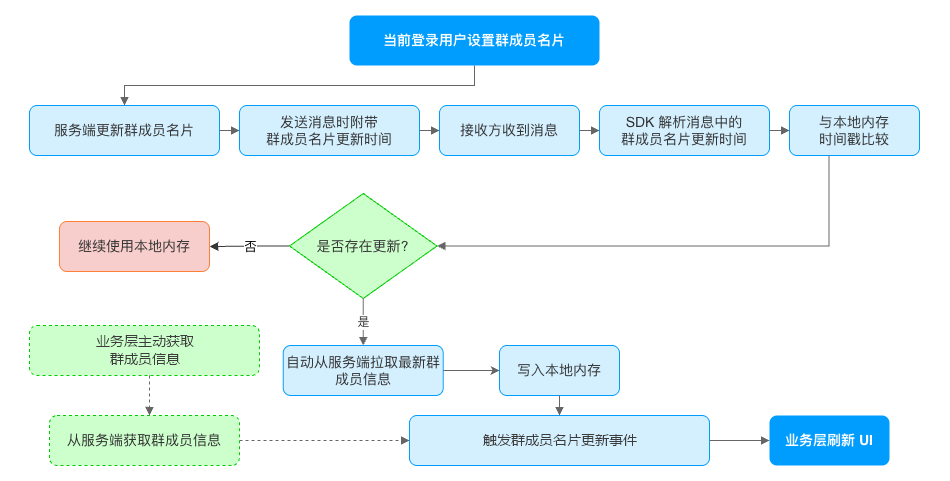
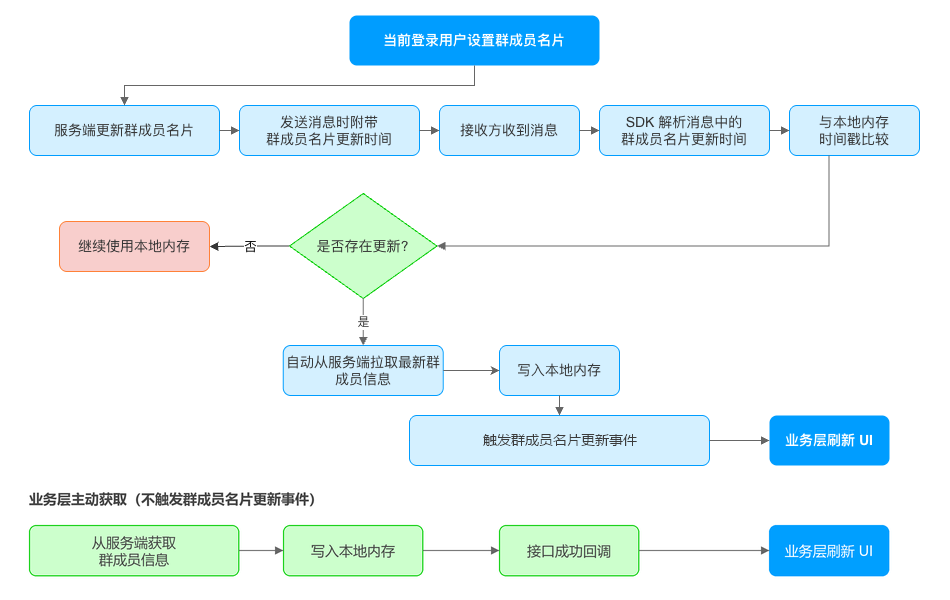
Change notice to tips

diff --git a/docs/document/react-native/push/push_overview.md b/docs/document/react-native/push/push_overview.md
@@ -70,20 +70,28 @@ iOS 端通过 APNs 接收普通离线推送通知，流程如下图所示：
 
 **推送证书**：推送证书及其配置的凭据用于环信服务器识别推送通道，并向对应推送服务进行鉴权。在发送推送通知前，需在 [环信控制台](https://console.easemob.com/user/login) 为应用配置推送证书或厂商凭据，并确保与客户端使用的推送项目、应用及环境一致。各平台的证书配置要求，详见 [上传推送证书](push_easemob_console.html)；Android 绑定时的 `notifierName` 取值，参见下文 [配置推送接口](#配置推送接口)。
 
-**推送 Token（Device Token）**：推送 Token 是第三方推送服务为应用实例生成的标识。以 FCM 推送为例，应用初次启动时，FCM SDK 会为客户端应用实例生成一个注册令牌（registration token），FCM 据此将通知准确投递至目标设备上的应用。在 Android 端接入 FCM 推送后，应用通过所用推送插件或原生推送 SDK 获取 FCM Token；iOS 普通 APNs 推送应获取 APNs Device Token。React Native IM SDK 不提供这些 Token 的获取接口。推送 Token 与 `ChatClient#loginWithToken` 使用的用户登录 Token 不同，不能混用。
+**推送 Token（Device Token）**：推送 Token 是第三方推送服务为应用实例生成的标识。以 FCM 推送为例，应用初次启动时，FCM SDK 会为客户端应用实例生成一个注册令牌（registration token），FCM 据此将通知投递至目标设备上的应用。在 Android 端接入 FCM 推送后，应用通过所用推送插件或原生推送 SDK 获取 FCM Token；iOS 普通 APNs 推送应获取 APNs Device Token。React Native IM SDK 不提供这些 Token 的获取接口。推送 Token 与 `ChatClient#loginWithToken` 使用的用户登录 Token 不同，不能混用。
 
-推送 Token 发生变化后，应在用户已登录的状态下重新调用 `ChatClient#bindDeviceToken` 绑定最新 Token。若退出即时通讯 IM 登录时选择不解绑 Device Token，可调用 `ChatClient.getInstance().logout(false)`；在推送证书和 Token 有效且满足推送条件时，用户仍可收到离线推送通知。`ChatClient#logout` 的 `unbindDeviceToken` 为可选的位置参数，默认为 `true`，表示登出时请求解绑 Device Token；传入 `false` 表示不解绑。
+推送 Token 发生变化后，应在用户已登录的状态下重新调用 `ChatClient#bindDeviceToken` 绑定最新 Token。
+
+`ChatClient#logout` 的 `unbindDeviceToken` 为可选的位置参数，默认为 `true`，表示登出时请求解绑 Device Token；传入 `false` 表示不解绑。若退出即时通讯 IM 登录时选择不解绑 Device Token，可调用 `ChatClient.getInstance().logout(false)`；在推送证书和 Token 有效且满足推送条件时，用户仍可收到离线推送通知。
 
 关于推送证书上传和 Token 获取，可参考 [上传推送证书](push_easemob_console.html)、[Android FCM 推送集成文档](/document/android/push/push_fcm.html#步骤四-fcm-推送集成) 和 [iOS APNs 推送集成文档](/document/ios/push/push_apns.html)。原生文档中的工程配置可作为参考，React Native SDK 5.x 的客户端配置与 Token 绑定调用以本文为准。
 
-:::tip
-React Native SDK 5.x 支持 iOS PushKit 接口。VoIP 推送使用独立的证书和 Token：初始化时通过 `ChatOptions.pushKitCertName` 配置证书名称，获取 `PKPushRegistry` 回调返回的十六进制 Token 后调用 `ChatClient#bindPushKitToken`。`ChatClient#bindDeviceToken` 不用于绑定 PushKit Token。
+**iOS PushKit 推送**
 
-`ChatClient#bindPushKitToken` 和 `ChatClient#unbindPushKitToken` 仅在 iOS 生效，其他平台调用不做任何处理。需要在保持登录状态下单独解绑 PushKit Token 时，调用 `ChatClient#unbindPushKitToken`。
-:::
+React Native SDK 5.x 支持 iOS PushKit 接口。VoIP 推送使用独立的证书和 Token，配置与绑定流程如下：
 
-:::notice
-iOS 端未配置 `ChatOptions.apnsCertName` 时，登出不会执行推送 Token 解绑。若仅使用 PushKit 推送并需要在登出时解除绑定，请先调用 `ChatClient#unbindPushKitToken`，成功后再登出，不要仅依赖 `logout(true)`。
+1. 初始化时，通过 `ChatOptions.pushKitCertName` 配置 PushKit 证书名称。
+2. 通过 `PKPushRegistry` 的回调获取 Token，并转换为十六进制字符串。
+3. 调用 `ChatClient#bindPushKitToken` 绑定 PushKit Token。`ChatClient#bindDeviceToken` 不用于绑定 PushKit Token。
+
+需要在保持登录状态下单独解绑 PushKit Token 时，调用 `ChatClient#unbindPushKitToken`。
+
+`ChatClient#bindPushKitToken` 和 `ChatClient#unbindPushKitToken` 仅在 iOS 生效，其他平台调用不做任何处理。
+
+:::tip 
+iOS 端未配置 `ChatOptions.apnsCertName` 时，登出会跳过推送 Token 解绑。若仅使用 PushKit 推送且需要在登出时解绑，请先调用 `ChatClient#unbindPushKitToken`，确认成功后再登出，不要仅依赖 `logout(true)`。
 :::
 
 ## 推送高级功能

diff --git a/docs/document/flutter/push/push_overview.md b/docs/document/flutter/push/push_overview.md
@@ -68,19 +68,25 @@ iOS 端通过 APNs 接收普通离线推送通知，流程如下图所示：
 
 ## 推送证书与推送 Token
 
-**推送证书**：推送证书及其配置的凭据用于环信服务器识别推送通道，并向对应推送服务进行鉴权。在发送推送通知前，需在 [环信控制台](https://console.easemob.com/user/login) 为应用配置推送证书或厂商凭据，并确保与客户端使用的推送项目、应用及环境一致。各平台的证书配置要求和 Android `notifierName` 取值，详见 [上传推送证书及绑定推送信息](push_easemob_console.html)。
+**推送证书**：推送证书及其配置的凭据用于环信服务器识别推送通道，并向对应推送服务进行鉴权。在发送推送通知前，需在 [环信控制台](https://console.easemob.com/user/login) 为应用配置推送证书或厂商凭据，并确保与客户端使用的推送项目、应用及环境一致。各平台的证书配置要求和 Android `notifierName` 取值，详见 [上传推送证书及绑定推送信息](app://-/push_easemob_console.html)。
 
-**推送 Token（Device Token）**：推送 Token 是第三方推送服务为应用实例生成的标识。以 FCM 推送为例，应用初次启动时，FCM SDK 会为客户端应用实例生成一个注册令牌（registration token），FCM 据此将通知准确投递至目标设备上的应用。在 Android 端集成 `firebase_messaging` 插件后，可通过 `FirebaseMessaging.instance.getToken()` 获取 FCM Token；iOS 普通 APNs 推送应获取 APNs Device Token。Flutter IM SDK 不提供这些 Token 的获取接口。推送 Token 与 `loginWithToken` 使用的用户登录 Token 不同，不能混用。
+**推送 Token（Device Token）**：推送 Token 是第三方推送服务为应用实例生成的标识。以 FCM 推送为例，应用初次启动时，FCM SDK 会为客户端应用实例生成一个注册令牌（registration token），FCM 据此将通知投递至目标设备上的应用。在 Android 端集成 `firebase_messaging` 插件后，可通过 `FirebaseMessaging.instance.getToken()` 获取 FCM Token；iOS 普通 APNs 推送应获取 APNs Device Token。Flutter IM SDK 不提供这些 Token 的获取接口。推送 Token 与 `loginWithToken` 使用的用户登录 Token 不同，不能混用。
 
 推送 Token 发生变化后，应在用户已登录的状态下重新调用 `bindDeviceToken` 绑定最新 Token。若退出即时通讯 IM 登录时选择不解绑 Device Token，可调用 `ChatClient.getInstance.logout(false)`；在推送证书和 Token 有效且满足推送条件时，用户仍可收到离线推送通知。`logout()` 默认解绑 Device Token，显式调用 `logout(true)` 同样表示解绑；`unbindDeviceToken` 是可选的位置参数，不是命名参数。
 
-关于推送证书上传和 Token 获取，可参考 [上传推送证书](push_easemob_console.html#上传推送证书)、[Android FCM 推送集成文档](/document/android/push/push_fcm.html#步骤四-fcm-推送集成) 和 [iOS APNs 推送集成文档](/document/ios/push/push_apns.html)。原生文档中的工程配置可作为参考，Flutter SDK 5.x 的客户端配置与 Token 绑定调用以本文为准。
+关于推送证书上传和 Token 获取，可参考 [上传推送证书](app://-/push_easemob_console.html#上传推送证书)、[Android FCM 推送集成文档](app://-/document/android/push/push_fcm.html#步骤四-fcm-推送集成) 和 [iOS APNs 推送集成文档](app://-/document/ios/push/push_apns.html)。原生文档中的工程配置可作为参考，Flutter SDK 5.x 的客户端配置与 Token 绑定调用以本文为准。
 
-:::tip
-Flutter SDK 5.x 支持 iOS PushKit 接口。VoIP 推送使用独立的证书和 Token：初始化时通过 `ChatOptions.pushKitCertName` 配置证书名称，获取 `PKPushRegistry` 回调返回的十六进制 Token 后调用 `ChatPushManager.bindPushKitToken`。`bindDeviceToken` 不用于绑定 PushKit Token。
+**iOS PushKit 推送**
 
-`bindPushKitToken` 和 `unbindPushKitToken` 仅在 iOS 生效，其他平台调用不做任何处理。需要在保持登录状态下单独解绑 PushKit Token 时，调用 `unbindPushKitToken`；iOS 端调用 `logout(true)` 时会同时解绑普通推送 Token 和 PushKit Token。
-:::
+Flutter SDK 5.x 支持 iOS PushKit 接口。VoIP 推送使用独立的证书和 Token，配置与绑定流程如下：
+
+1. 初始化 SDK 时，通过 `ChatOptions.pushKitCertName` 配置 PushKit 证书名称。
+2. 将 `PKPushRegistry` 回调中获取的 PushKit Token 转换为十六进制字符串。
+3. 用户登录成功后，调用 `ChatPushManager.bindPushKitToken` 绑定该 Token。`bindDeviceToken` 不用于绑定 PushKit Token。
+
+需要在保持登录状态下单独解绑 PushKit Token 时，调用 `ChatPushManager.unbindPushKitToken`。iOS 端调用 `logout(true)` 时会同时解绑普通推送 Token 和 PushKit Token。
+
+`bindPushKitToken` 和 `unbindPushKitToken` 仅在 iOS 生效，其他平台调用不做任何处理。
 
 ## 推送高级功能
 

diff --git a/docs/document/flutter/userinfo_provider.md b/docs/document/flutter/userinfo_provider.md
@@ -10,18 +10,23 @@
 
 ## 技术原理
 
-用户信息自动管理功能由 `ChatOptions#enableUserInfo` 控制。初始化 SDK 时开启该功能后，原生 SDK 会在登录成功后自动同步当前登录用户的用户信息；发送消息时自动携带发送方用户属性的更新时间，对于群聊消息还会携带发送方群成员名片的更新时间。
+用户信息自动管理功能由 `ChatOptions.enableUserInfo` 控制，默认关闭。初始化 SDK 时将其设置为 `true` 后，SDK 会在登录成功后自动同步当前登录用户的用户属性；发送消息时自动附带发送方用户属性的更新时间；对于群聊消息，还会附带发送方在当前群组中的群成员名片更新时间。
 
-接收消息后，原生 SDK 会比较消息中携带的更新时间与本地内存中的对应时间戳。如果消息中的数据较新或本地缺少相关数据，原生 SDK 会从服务器获取最新的用户属性或群成员名片，更新本地内存，并通过 Flutter SDK 的事件处理器通知业务层刷新 UI。
+接收消息后，原生 SDK 会自动将消息中携带的更新时间与本地缓存中的对应时间戳进行比较。消息携带有效的更新时间，且该时间晚于本地缓存中的对应时间戳，或本地缺少相关缓存时，SDK 会从服务端拉取最新的用户属性或群成员名片，更新原生 SDK 本地缓存，并通过相应事件通知 Flutter 业务层刷新界面。业务层无需解析或比较这些内部时间戳。好友备注从接收方本地好友数据中读取，不随消息发送，也不通过上述更新时间比较机制同步。详见 [通过消息获取发送方信息](#通过消息获取发送方信息)。
 
-`enableUserInfo` 与登录后列表同步配置 `dataSyncType` 相互独立。开启用户信息自动管理不等于开启会话、好友或已加入群组列表同步，也不表示登录后会自动获取所有好友的完整用户属性。列表同步配置详见 [初始化](initialization.html#设置登录后自动同步数据)。
+开启该功能后，SDK 会自动完成用户信息的同步、本地缓存更新及事件通知。业务层可根据通知刷新 UI。处理流程如下：
 
-Flutter 还会为 `fetchUserInfoById` 的结果维护一份 Dart 层缓存，该缓存与原生 SDK 的本地数据相互独立。用户属性更新事件不会自动刷新这份 Dart 缓存，也不会自动修改已创建的 Dart 消息对象；业务层需要根据事件数据更新自己的展示状态。
+1. 用户登录成功后，SDK 自动从服务端获取当前登录用户的属性，并写入原生 SDK 本地缓存。
+2. 当用户更新自身属性后，后续发送的消息会携带用户属性的更新时间；对于群聊消息，还会携带发送方在当前群组中的群成员名片更新时间。
+3. 接收方收到消息后，SDK 会解析消息中携带的用户属性更新时间；对于群聊消息，还会解析群成员名片更新时间。
+4. SDK 会将消息中的更新时间与原生 SDK 本地缓存中的对应时间戳进行比较。
+5. 如果消息携带有效的更新时间，且该时间晚于本地缓存中的对应时间戳，或本地缺少对应数据，SDK 会自动 [从服务端拉取最新用户属性](userprofile.html#从服务端获取用户的属性) 或 [群成员名片](group_namecard.html#从服务端获取群成员名片)。其中，群成员名片仅适用于群聊消息。
+6. 拉取成功后，SDK 会自动更新原生 SDK 本地缓存。
+7. SDK 会通过事件通知 Flutter 业务层，业务层可据此刷新 UI。
 
-Flutter SDK 对 Android 和 iOS 平台的用户信息自动管理能力进行了统一封装。有关各平台的具体实现原理，请参见：
+刷新界面时，请使用事件回调中的最新信息，或重新获取消息对象后读取 `ChatMessage.senderInfo`。先前持有的 Dart 消息对象不会自动更新。上述本地缓存由原生 SDK 维护，与 `fetchUserInfoById` 使用的 Dart 层缓存相互独立，用户信息更新事件不会自动刷新该 Dart 层缓存。
 
-- [Android 用户信息自动管理技术原理](/document/android/userinfo_provider.html#技术原理)
-- [iOS 用户信息自动管理技术原理](/document/ios/userinfo_provider.html#技术原理)
+![img](/images/android/memory_update_userinfo_mgmt.png)
 
 ## 前提条件
 

diff --git a/docs/document/react-native/group_namecard.md b/docs/document/react-native/group_namecard.md
@@ -10,13 +10,13 @@ React Native SDK 提供群成员名片管理功能，支持群成员名片的设
 
 ## 技术原理
 
-群成员名片管理功能主要由 `ChatGroupManager` 和 `ChatGroupEventListener` 提供。SDK 通过“主动设置或拉取、本地内存存储、事件通知、消息触发自动同步”的机制管理群成员名片，具体如下：
+群成员名片管理功能主要由 `ChatGroupManager` 和 `ChatGroupEventHandler` 提供。SDK 通过“主动设置或拉取、本地内存存储、事件通知、消息触发自动同步”的机制管理群成员名片，具体如下：
 
-1. 当前登录用户可通过 `ChatGroupManager#updateGroupNamecard` 设置或更新自己在指定群组中的群成员名片。
-2. SDK 收到群成员名片变更通知，或通过消息自动同步群成员名片并更新本地内存后，会通过 `ChatGroupEventListener#onUserGroupNamecardChanged` 事件通知业务层。
-3. SDK 支持通过 `ChatGroupManager#fetchMemberInfoListFromServer` 从服务端分页获取群成员信息，并将返回的群成员名片写入本地内存。
-4. SDK 支持通过 `ChatGroupManager#getGroupNamecard` 从本地内存读取指定成员在指定群组中的群成员名片。
-5. 若在初始化 SDK 时将 `ChatOptions#enableUserInfo` 设为 `true`（默认为 `false`），发送群聊消息时会自动附带发送方群成员名片更新时间；接收方开启该功能后，若检测到消息中的更新时间晚于本地内存中的更新时间，或本地尚无对应名片缓存，会自动从服务端拉取最新群成员名片，获取成功后更新本地内存，并触发事件通知业务层。
+1. 当前登录用户可通过 `ChatGroupManager.updateGroupNamecard` 设置或更新自己在指定群组中的群成员名片。
+2. SDK 收到群成员名片变更通知，或通过消息自动同步群成员名片并更新本地内存后，会通过 `ChatGroupEventHandler.onUserGroupNamecardChanged` 事件通知 Flutter 业务层。
+3. SDK 支持通过 `ChatGroupManager.fetchGroupMembersInfo` 从服务端分页获取群成员信息，并将返回的群成员名片写入原生 SDK 本地内存。
+4. SDK 支持通过 `ChatGroupManager.getGroupNamecard` 从原生 SDK 本地内存读取指定成员在指定群组中的群成员名片。该方法返回 `Future<String?>`，不会主动请求服务端。
+5. 若在初始化 SDK 时将 `ChatOptions.enableUserInfo` 设为 `true`（默认为 `false`），发送群聊消息时会自动附带发送方群成员名片的更新时间；接收方开启该功能后，若消息携带有效的更新时间，且该时间晚于本地内存中的对应时间戳，或本地尚无对应名片缓存，SDK 会自动从服务端拉取最新群成员名片，获取成功后更新原生 SDK 本地内存，并通过 `onUserGroupNamecardChanged` 事件通知 Flutter 业务层。
 
 内存更新流程如下图所示：
 

diff --git a/docs/document/react-native/login.md b/docs/document/react-native/login.md
@@ -183,17 +183,19 @@ try {
 }
 ```
 
-:::tip
-1. 如果应用集成了 FCM 等第三方推送，退出登录时建议将 `logout` 方法的 `unbindDeviceToken` 参数设置为 `true`，使 SDK 同时解绑当前设备的推送 Token。否则，退出登录后仍可能收到当前账号的离线推送通知。
+**推送 Token 解绑**
+
+如果应用集成了 FCM 等第三方推送，退出登录时建议将 `logout` 方法的 `unbindDeviceToken` 参数设置为 `true`，使 SDK 同时解绑当前设备的推送 Token。否则，退出登录后仍可能收到当前账号的离线推送通知。
 
 如果因网络异常导致推送 Token 解绑失败，`logout` 会返回失败。应用可以提示用户解绑失败及继续退出后可能仍收到推送的风险。若用户确认继续退出，可以将 `unbindDeviceToken` 设置为 `false`，再次调用 `logout`，仅退出 IM 账号而不解绑推送 Token。网络恢复后，应在适当时机处理遗留的推送 Token 解绑问题，不建议通过后台线程无限重试。
 
-2. 调用 `ChatClient#logout` 时，应等待 Promise 成功完成后，再调用 `ChatClient#loginWithToken` 登录其他账号或执行依赖退出完成的操作。若 Promise 拒绝，表示退出或推送 Token 解绑失败，应用应根据错误信息和业务场景进行处理。
+:::tip 
+React Native SDK 5.x 的 iOS 端在未配置 `ChatOptions#apnsCertName` 时，会按不解绑推送 Token 的方式退出，即使 `unbindDeviceToken` 为 `true`。若仅集成 PushKit 推送且需要解绑 Token，应在退出前调用 `ChatClient#unbindPushKitToken`，确认成功后再退出登录。
 :::
 
-:::notice
-React Native SDK 5.x 的 iOS 端在未配置 `ChatOptions#apnsCertName` 时，会按不解绑推送 Token 的方式退出，即使 `unbindDeviceToken` 为 `true`。若仅集成 PushKit 推送且需要解绑 Token，应在退出前调用 `ChatClient#unbindPushKitToken`，并处理解绑结果。
-:::
+**退出结果处理**
+
+调用 `ChatClient#logout` 时，应等待 Promise 成功完成后，再调用 `ChatClient#loginWithToken` 登录其他账号或执行依赖退出完成的操作。若 Promise 拒绝，表示退出或推送 Token 解绑失败，应用应根据错误信息和业务场景进行处理。
 
 ## 账号切换
 

diff --git a/docs/document/flutter/login.md b/docs/document/flutter/login.md
@@ -151,24 +151,27 @@ final String? currentUser =
 - （默认）`true`：解绑设备推送 Token。
 - `false`：不解绑设备推送 Token。
 
-通过异步方法的返回结果获取退出结果：
+示例代码如下：
 
 ```dart
 try {
   await ChatClient.getInstance.logout(true);
   // 退出成功。
 } on ChatError catch (e) {
-  // 退出失败。
+  // 退出失败，根据错误码和错误信息处理。
 }
 ```
 
 :::tip
-1. 如果应用集成了 FCM 等第三方推送，退出登录时建议将 `logout` 方法的 `unbindDeviceToken` 参数设置为 `true`，使 SDK 同时解绑当前设备的推送 Token。否则，退出登录后仍可能收到当前账号的离线推送通知。
-
-如果因网络异常导致推送 Token 解绑失败，`logout` 会抛出 `ChatError`。应用可以提示用户解绑失败及继续退出后可能仍收到推送的风险。若用户确认继续退出，可以将 `unbindDeviceToken` 设置为 `false`，再次调用 `logout`，仅退出 IM 账号而不解绑推送 Token。网络恢复后，应在适当时机处理遗留的推送 Token 解绑问题，不建议通过后台任务无限重试。
-
-2. 调用异步退出方法 `logout` 时，应等待该方法正常返回后，再调用 `loginWithToken` 登录其他账号或执行依赖退出完成的操作。若抛出 `ChatError`，表示退出或推送 Token 解绑失败，应用应根据错误码和业务场景进行处理。
+- 建议退出时解绑设备推送 Token，否则退出后仍可能收到当前账号的离线推送通知。
+- 请等待 `logout` 正常返回后，再登录其他账号或执行依赖退出完成的操作。
 :::
+
+**推送 Token 解绑失败处理**
+
+若因网络异常导致推送 Token 解绑失败，`logout` 会抛出 `ChatError`。应用应提示用户失败原因，并说明继续退出后仍可能收到当前账号的离线推送通知。
+
+若用户选择继续退出，可调用 `logout(false)`，仅退出 IM 账号而不解绑推送 Token。后续应结合网络恢复情况和账号登录状态，处理遗留的 Token 解绑问题。其他退出错误应根据错误码和业务场景处理。
 
 ## 账号切换
 

diff --git a/docs/document/react-native/multi_device.md b/docs/document/react-native/multi_device.md
@@ -277,17 +277,16 @@ async function kickAllDevices(userId: string, token: string): Promise<void> {
 
 例如，账号 A 同时在设备 A 和 B 上登录，账号 A 在设备 A 上进行操作，设备 B 会收到这些操作对应的通知。
 
-你需要先实现 `ChatMultiDeviceEventListener` 接口监听其他设备上的操作，然后调用 `ChatClient#addMultiDeviceListener` 方法添加多设备监听。
+你需要先实现 `ChatMultiDeviceEventListener` 接口监听其他设备上的操作，然后调用 `ChatClient#addMultiDeviceListener` 方法添加多设备监听。**登录成功后才能接收多设备事件。**
 
-若当前设备因同端设备数量达到上限而被踢下线，SDK 会通过 `ChatConnectEventListener#onDisconnected` 回调通知；当前账号在其他设备上的好友、群组、消息话题和会话操作，则通过 `ChatMultiDeviceEventListener` 的对应回调通知。聊天室不产生会话管理类多设备事件，但聊天室消息仍会同步。
+不同类型的通知通过以下回调接收：
+
+- 当前设备因同端设备数量达到上限而被踢下线时，通过 `ChatConnectEventListener#onDisconnected` 接收通知。
+- 当前账号在其他设备上进行好友、群组、消息话题和会话操作时，通过 `ChatMultiDeviceEventListener` 的对应回调接收通知。
+
+多设备事件不包含聊天室操作相关事件，仅支持聊天室中发送和接收消息的同步。
 
 :::tip
-1. 多端多设备场景下，无聊天室操作相关事件，只支持聊天室中发送和接收消息的同步。
-
-2. 登录成功后才能接收多设备事件。
-:::
-
-:::notice
 React Native SDK 5.x 的 iOS 桥接层因回调方法名与原生协议不匹配，未能将消息话题多设备事件转发至 `ChatMultiDeviceEventListener#onThreadEvent`。请勿依赖该回调刷新 iOS 消息话题界面，可按需重新查询消息话题列表或详情，详见 [管理消息话题](thread.html)。Android 端可正常使用该回调。
 :::
 

diff --git a/docs/document/react-native/initialization.md b/docs/document/react-native/initialization.md
@@ -45,7 +45,7 @@ ChatClient.getInstance()
 | `isChatRoomOwnerLeaveAllowed` | 是否允许聊天室所有者离开聊天室。<br/> -（默认）`true`：允许；<br/> - `false`：不允许。消息是否删除由 `deleteMessagesAsExitChatRoom` 控制。 |
 | `enableEmptyConversation` | 设置获取本地会话时是否包含空会话。<br/> - `true`：包含空会话。<br/> -（默认）`false`：不包含空会话。 |
 
-React Native SDK 5.0.0 不支持自动登录。初始化完成后，应用需主动调用 `ChatClient#loginWithToken` 登录，详见 [登录](login.html)。
+React Native SDK 5.x 不支持自动登录。初始化完成后，应用需主动调用 `ChatClient#loginWithToken` 登录，详见 [登录](login.html)。
 
 ## 初始化后设置监听
 
@@ -108,7 +108,7 @@ SDK 支持在初始化前通过 `ChatOptions#dataSyncType` 配置登录后自动
 
 配置规则如下：
 
-- React Native SDK 5.0.0 未设置 `dataSyncType` 时，沿用原生 SDK 默认值：Android 端默认不自动同步，iOS 端默认同步会话列表。为保证双端行为一致，建议显式配置。
+- React Native SDK 5.0.0 未设置 `dataSyncType` 时，沿用原生 SDK 默认值：Android 5.0.0 默认不自动同步，iOS 5.0.0 默认同步会话列表。为保证双端行为一致，建议显式配置。
 - 需要同步一种数据时，传入对应的 `ChatDataSyncType` 枚举值。
 - 需要同步多种数据时，通过按位或运算符 `|` 组合对应的枚举值。
 - 设置为 `ChatDataSyncType.None` 表示不自动同步。

diff --git a/docs/document/react-native/conversation_unread.md b/docs/document/react-native/conversation_unread.md
@@ -25,11 +25,8 @@
 4. 如需清零所有会话的未读数，可调用 `ChatManager#clearAllConversationUnreadMessageCount` 接口。该操作会清零当前设备本地缓存中的全部会话未读数，并尝试同步到当前用户的其他在线设备。
 
 :::tip
-清零会话未读数不会向会话对端发送通知，也不会触发对端的消息已读回执。如需让消息发送方感知消息已读，请使用消息已读回执功能。
-:::
-
-:::notice
-这两个清零接口会先更新本地未读数，再尝试同步到当前账号的其他设备。未连接服务器或同步请求超时等情况下，接口仍可能正常返回。因此，Promise 成功不表示其他设备已完成同步。当前设备应在调用成功后重新读取本地数据；其他设备应在实际收到多设备事件后重新读取本地数据并刷新界面。
+1. 清零会话未读数不会向会话对端发送通知，也不会触发对端的消息已读回执。如需让消息发送方感知消息已读，请使用 [消息已读回执功能](message_receipt.html)。
+2. 这两个清零接口会先更新本地未读数，再尝试同步到当前账号的其他设备。未连接服务器或同步请求超时等情况下，接口仍可能正常返回。因此，Promise 成功不表示其他设备已完成同步。当前设备应在调用成功后重新读取本地数据；其他设备应在实际收到多设备事件后重新读取本地数据并刷新界面。
 :::
 
 ## 获取所有会话的未读消息数

diff --git a/docs/document/react-native/thread.md b/docs/document/react-native/thread.md
@@ -21,7 +21,7 @@
 
 单设备登录时，消息话题所属群组的所有成员均会收到 `ChatMessageEventListener#onChatMessageThreadCreated` 回调；Android 端多设备登录时，其他设备会同时收到 `ChatMultiDeviceEventListener#onThreadEvent` 回调，回调事件为 `ChatMultiDeviceEvent.THREAD_CREATE`。
 
-:::notice
+:::tip
 React Native SDK 5.x 的 iOS 端无法正常将消息话题多设备事件转发至 `ChatMultiDeviceEventListener#onThreadEvent`，请勿依赖该回调刷新消息话题界面。应用可按需重新查询消息话题列表或详情。此限制不影响 `ChatMessageEventListener` 中的消息话题事件回调。
 :::
 
@@ -131,7 +131,7 @@ try {
 
 被踢出消息话题的成员会收到 `ChatMessageEventListener#onChatMessageThreadUserRemoved` 回调。Android 端多设备登录时，执行踢人操作的成员的其他设备会同时收到 `ChatMultiDeviceEventListener#onThreadEvent` 回调，回调事件为 `ChatMultiDeviceEvent.THREAD_KICK`。
 
-:::notice
+:::tip
 React Native SDK 5.x 的 iOS 端未正确传递消息话题 ID 和成员用户 ID，不能按该接口的公开参数顺序正常完成移除操作。当前版本的 iOS 应用可通过业务服务器调用 [移出消息话题成员接口](/document/server-side/group_thread_member_remove.html) 完成操作。不要通过交换公开接口参数规避该问题。
 :::
 

diff --git a/docs/document/react-native/group_manage.md b/docs/document/react-native/group_manage.md
@@ -177,7 +177,7 @@ try {
 
 React Native SDK 5.0.0 可通过 `ChatGroup.configs` 读取群配置，但 Android 端返回的群对象不包含 `inviteNeedConfirm`，该字段会被填充为 `false`，不能据此判断服务端实际配置。
 
-:::notice
+:::tip
 React Native SDK 5.x 的 Android 端调用 `ChatGroupManager#declineInvitation` 时，邀请者 ID 未传递至原生接口。使用手动拒绝邀请流程前，请验证目标版本能否正确拒绝邀请并通知邀请人。
 :::
 
@@ -547,7 +547,7 @@ function removeGroupListener(): void {
 }
 ```
 
-:::notice
+:::tip
 - React Native SDK 5.x 的 Android 端白名单变更事件未提供 `members` 字段。请将回调作为变更通知，按需重新查询白名单。
 - `ChatGroupEventListener#onSharedFileAdded` 的 `sharedFile` 声明为 `string`，但双端实际返回文件信息对象。请通过 [共享文件列表接口](group_attributes.html#从服务器获取共享文件) 获取文件信息，不将该字段直接作为文件 ID。
 - iOS 端邀请事件的 `reason`、自动入群事件的 `inviteMessage` 可能缺失；`onRequestToJoinAccepted` 的 `accepter` 为群主 ID，不应据此判断实际审批人。
